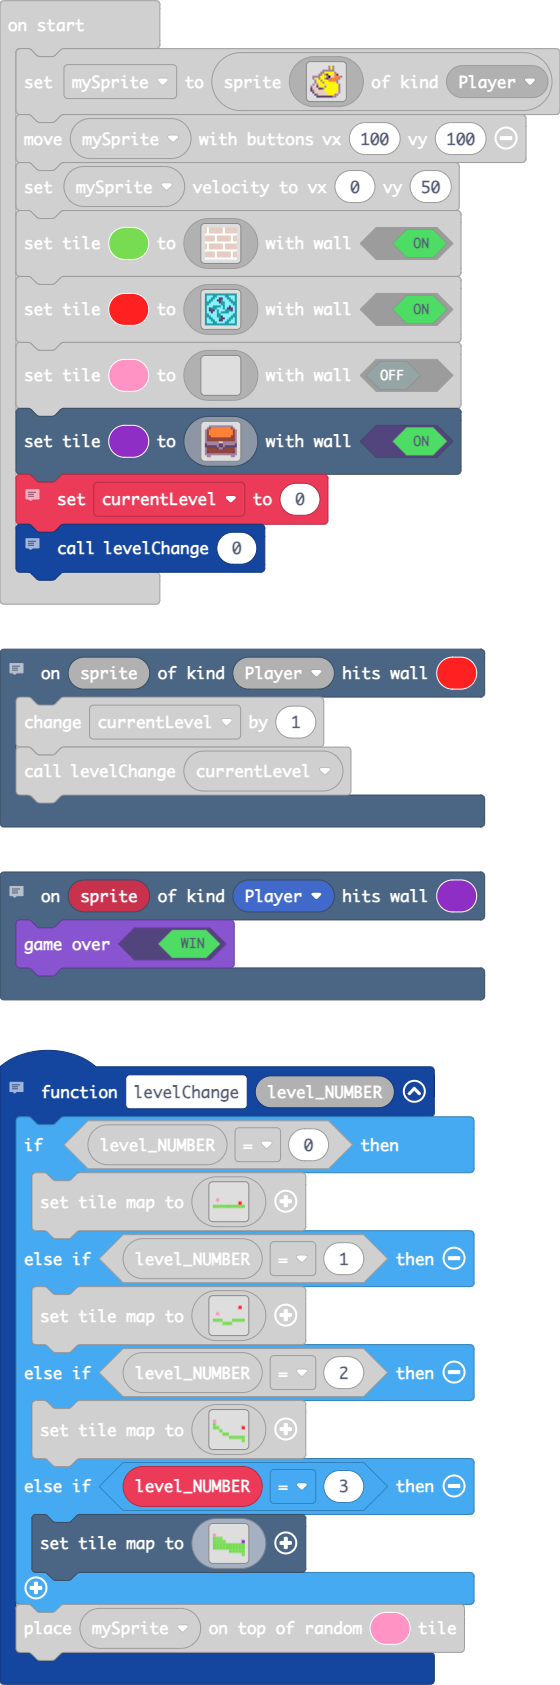
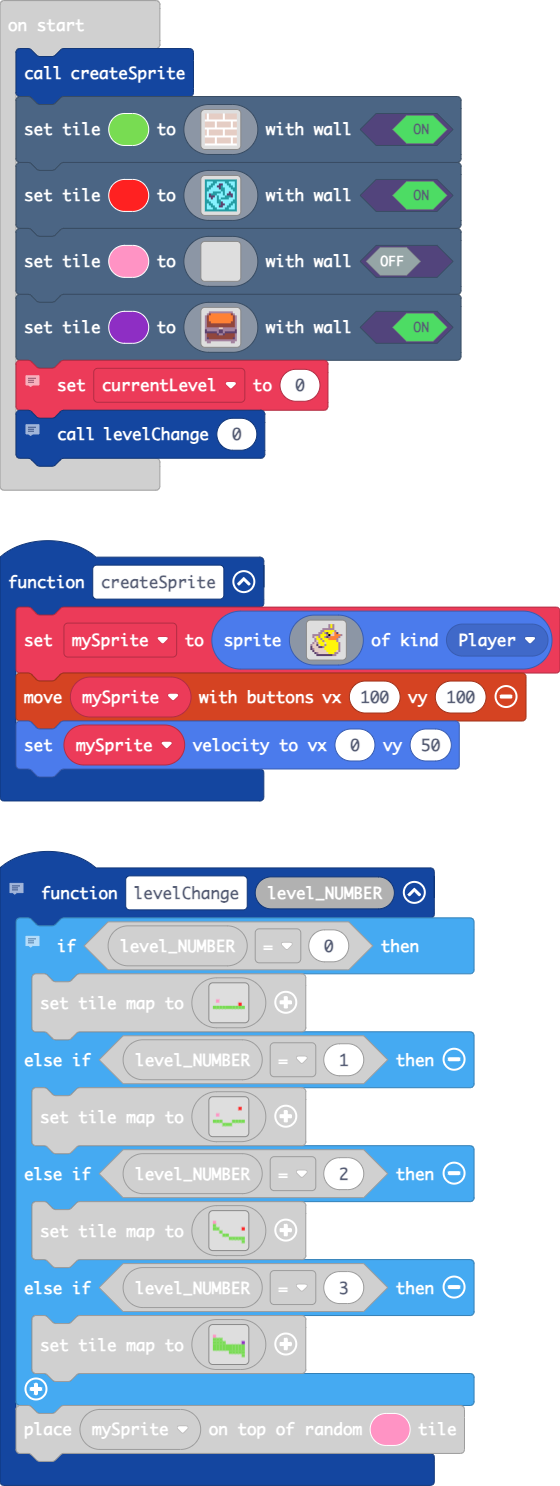
extra comment

diff --git a/main.ts b/main.ts
@@ -1,9 +1,32 @@
+function createSprite () {
+    mySprite = sprites.create(img`
+        . . . . . . . . . b 5 b . . . . 
+        . . . . . . . . . b 5 b . . . . 
+        . . . . . . b b b b b b . . . . 
+        . . . . . b b 5 5 5 5 5 b . . . 
+        . . . . b b 5 b c 5 5 d 4 c . . 
+        . b b b b 5 5 5 b f d d 4 4 4 b 
+        . b d 5 b 5 5 b c b 4 4 4 4 b . 
+        . . b 5 5 b 5 5 5 4 4 4 4 b . . 
+        . . b d 5 5 b 5 5 5 5 5 5 b . . 
+        . b d b 5 5 5 d 5 5 5 5 5 5 b . 
+        b d d c d 5 5 b 5 5 5 5 5 5 b . 
+        c d d d c c b 5 5 5 5 5 5 5 b . 
+        c b d d d d d 5 5 5 5 5 5 5 b . 
+        . c d d d d d d 5 5 5 5 5 d b . 
+        . . c b d d d d d 5 5 5 b b . . 
+        . . . c c c c c c c c b b . . . 
+        `, SpriteKind.Player)
+    controller.moveSprite(mySprite, 100, 100)
+    mySprite.setVelocity(0, 50)
+}
 // This just allows the user to hit a different style tile to win the game.
 scene.onHitTile(SpriteKind.Player, 10, function (sprite) {
     game.gameOver(true)
 })
 // This is where we can set our levels.  You create a tile map and set the "level_NUMBER" to the number of the level (in this case starting at 0)... Each tile map is different based on each condition... This is checking the level_NUMBER and then setting the tilemap based on what number level you are on.  It also places the player on the pink starting tile
 function levelChange (level_NUMBER: number) {
+    // For this function, it needs a "level_NUMBER" attached to it so that we can change the number (you do this when creating the function by clicking "number" and then renaming the variable.  the variable is pulled directly from the function into each of these conditions
     if (level_NUMBER == 0) {
         scene.setTileMap(img`
             . . . . . . . . . . 
@@ -56,28 +79,9 @@ scene.onHitTile(SpriteKind.Player, 2, function (sprite) {
     currentLevel += 1
     levelChange(currentLevel)
 })
-let currentLevel = 0
 let mySprite: Sprite = null
-mySprite = sprites.create(img`
-    . . . . . . . . . b 5 b . . . . 
-    . . . . . . . . . b 5 b . . . . 
-    . . . . . . b b b b b b . . . . 
-    . . . . . b b 5 5 5 5 5 b . . . 
-    . . . . b b 5 b c 5 5 d 4 c . . 
-    . b b b b 5 5 5 b f d d 4 4 4 b 
-    . b d 5 b 5 5 b c b 4 4 4 4 b . 
-    . . b 5 5 b 5 5 5 4 4 4 4 b . . 
-    . . b d 5 5 b 5 5 5 5 5 5 b . . 
-    . b d b 5 5 5 d 5 5 5 5 5 5 b . 
-    b d d c d 5 5 b 5 5 5 5 5 5 b . 
-    c d d d c c b 5 5 5 5 5 5 5 b . 
-    c b d d d d d 5 5 5 5 5 5 5 b . 
-    . c d d d d d d 5 5 5 5 5 d b . 
-    . . c b d d d d d 5 5 5 b b . . 
-    . . . c c c c c c c c b b . . . 
-    `, SpriteKind.Player)
-controller.moveSprite(mySprite, 100, 100)
-mySprite.setVelocity(0, 50)
+let currentLevel = 0
+createSprite()
 scene.setTile(7, img`
     d 1 d d d d d d d 1 d d d d d d 
     d 1 d d d d d d d 1 d d d d d d 
